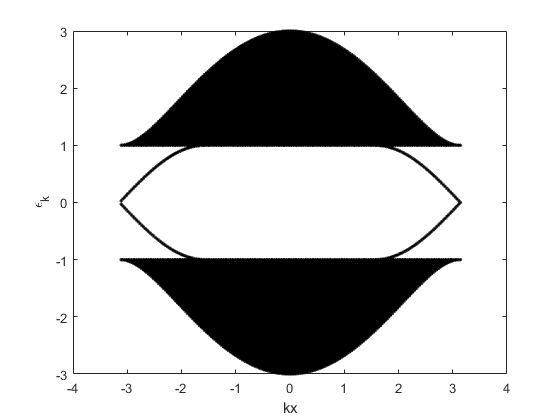
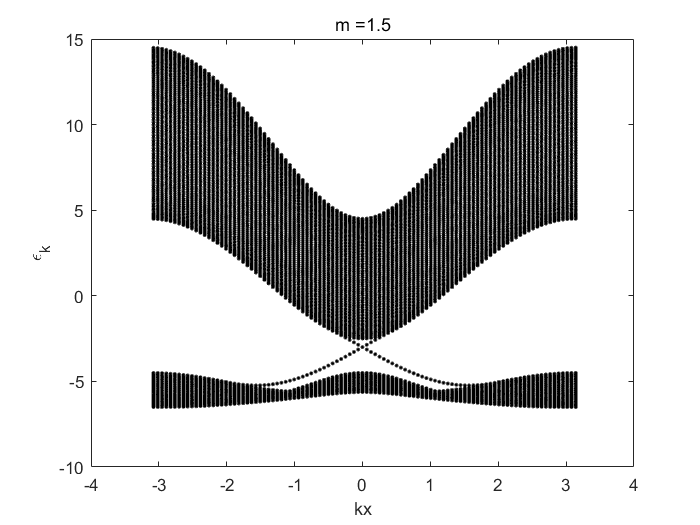
update P3.m
correct the spectrum of the edge state

diff --git a/P3.m b/P3.m
@@ -1,11 +1,11 @@
-% 2D Chern insulator model, periodical boundary condition for x-direction but
-% finite size for y-direction, square lattice, after Fourier transform for
+% 2D Chern insulator model, periodical boundary condition for y-direction but
+% finite size for x-direction, square lattice, after inversal Fourier transform for
 % x-axis.
 
 tic;
-Lx = 200;
-Ly = 200;
-m = -1;
+Lx = 100;
+Ly = 100;
+m = 1.5;
 sigma_x = [0 1; 1 0];
 sigma_y = [0 -1i; 1i 0];
 sigma_z = [1 0; 0 -1];
@@ -16,22 +16,28 @@ k = -pi+2*pi/Lx:2*pi/Lx:pi;
 % k = 0:2*pi/Lx:2*pi-2*pi/Lx;
 
 for ki = 1:length(k)
-    H1 = zeros(Ly,Ly);
-    H2 = zeros(Ly,Ly);
-    H3 = zeros(Ly,Ly);
-    for i = 1:Ly-1
+    H1 = zeros(Lx,Lx); % for sigma_x
+    H2 = zeros(Lx,Lx); % for sigma_y
+    H3 = zeros(Lx,Lx); % for sigma_z
+    H4 = zeros(Lx,Lx); % for epsilon_k
+    for i = 1:Lx-1
         H1(i,i) = sin(k(ki));
-        H3(i,i) = m + cos(k(ki));
+        H3(i,i) = m - cos(k(ki));
+        H4(i,i) = -2*cos(k(ki));
         
-        H2(i,i+1) = -1i/2;
-        H2(i+1,i) = 1i/2;
-        H3(i,i+1) = 1/2;
-        H3(i+1,i) = 1/2;
+        H2(i,i+1) = 1i/2;
+        H2(i+1,i) = -1i/2;
+        H3(i,i+1) = -1/2;
+        H3(i+1,i) = -1/2;
+        H4(i,i+1) = -1;
+        H4(i+1,i) = -1;
     end
-    H1(Ly,Ly) = sin(k(ki));
-    H3(Ly,Ly) = m + cos(k(ki));
+    H1(Lx,Lx) = sin(k(ki));
+    H3(Lx,Lx) = m - cos(k(ki));
+    H4(Lx,Lx) = -2*cos(k(ki));
     
-    H = kron(H1,sigma_x) + kron(H2,sigma_y) + kron(H3,sigma_z);
+    H = 3*(kron(H1,sigma_x) - kron(H2,sigma_y) + kron(H3,sigma_z)) + kron(H4,eye(2));
+%     H = 3*(kron(H1,sigma_x) - kron(H2,sigma_y) + kron(H3,sigma_z));
     
     e = eig(H);
     x = k(ki).*(zeros(Ly*2,1)+1);
